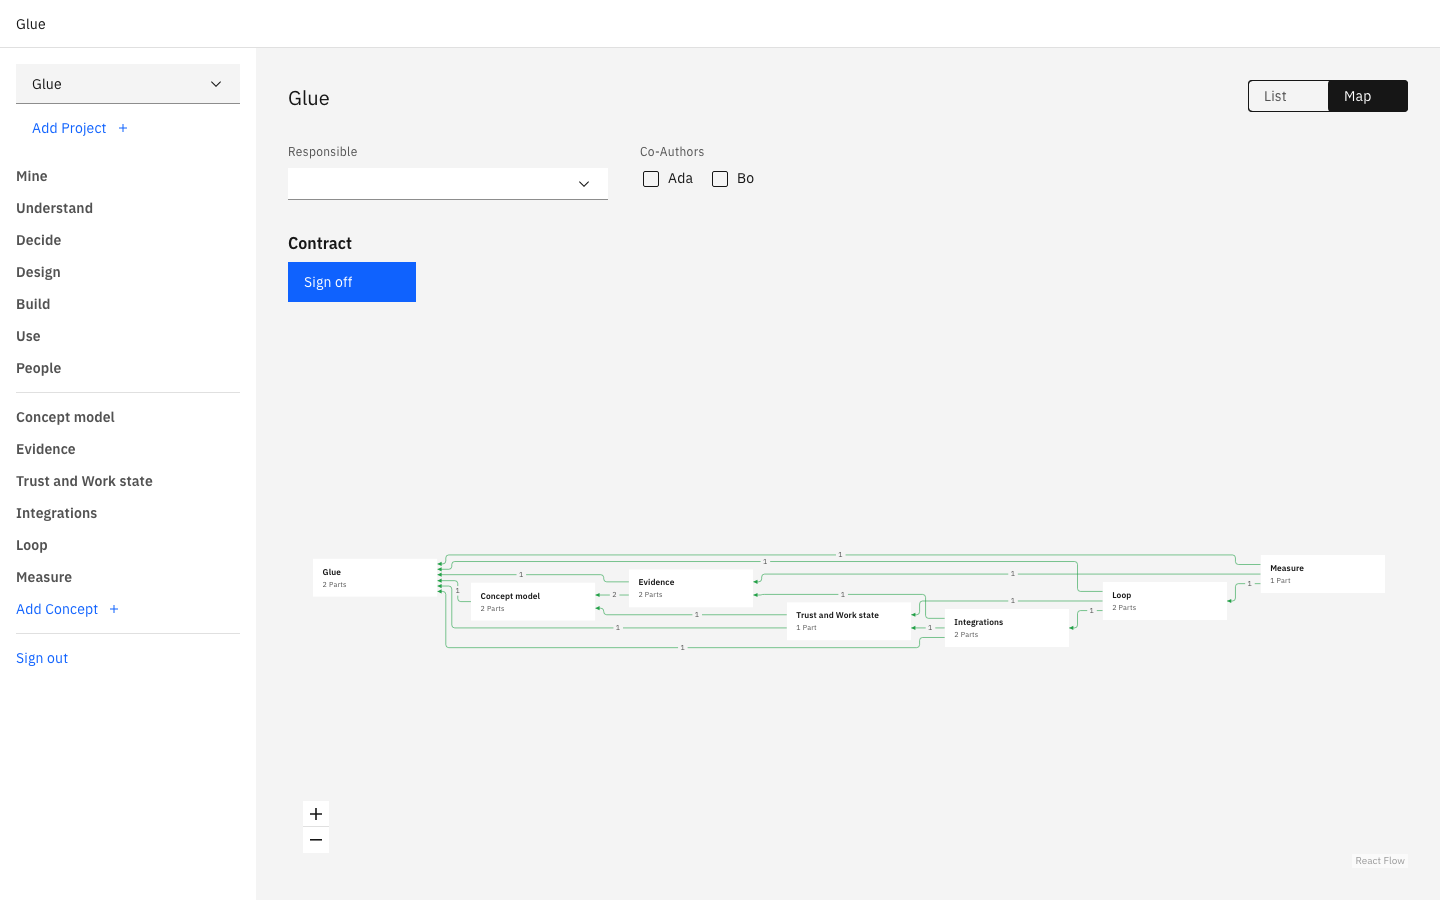
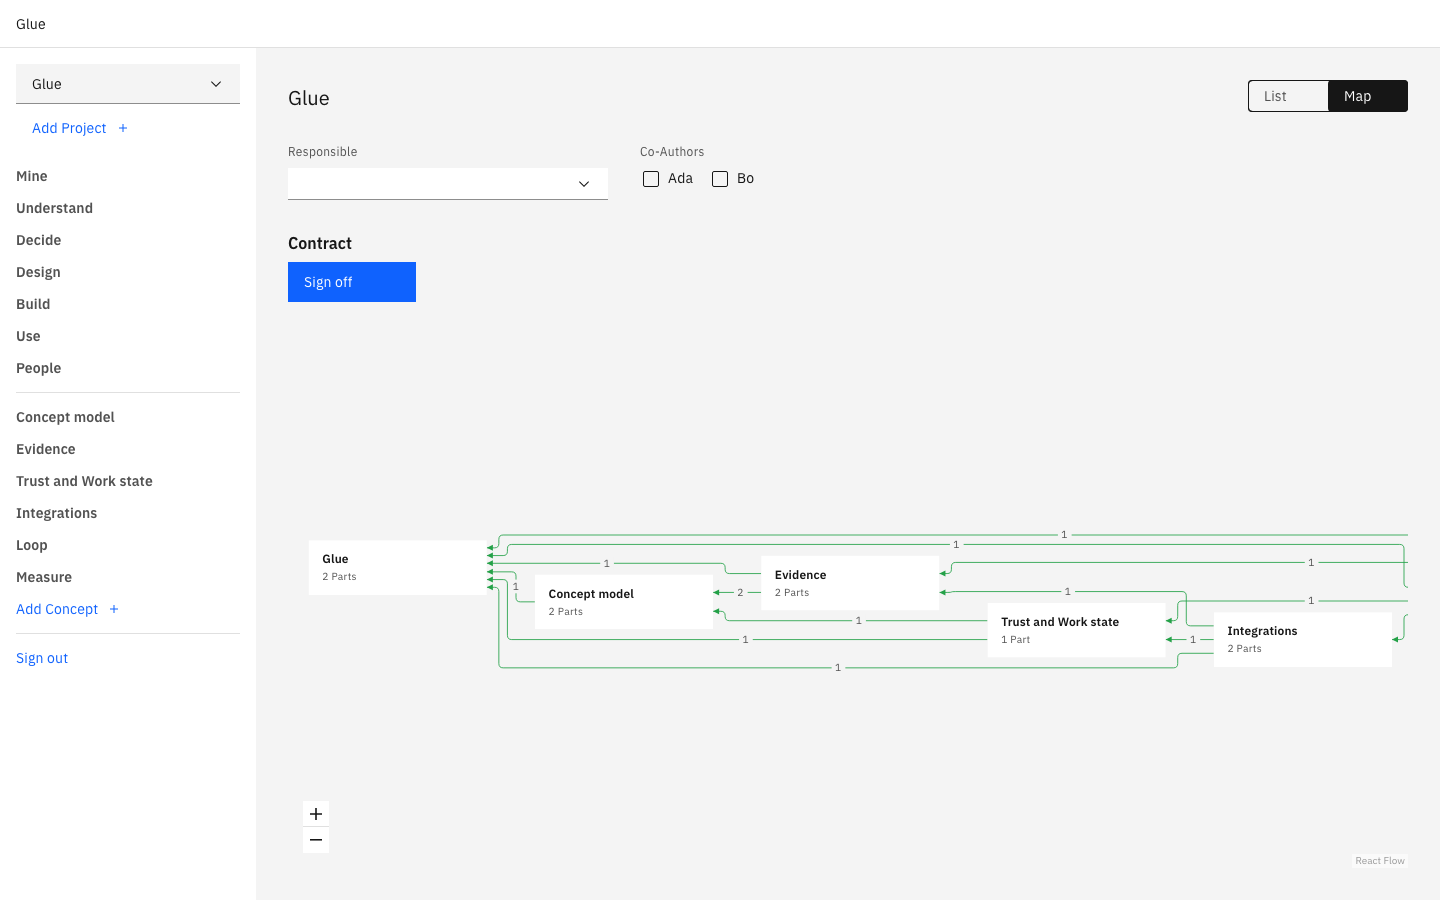
fix(map): keep the titles of the Map readable in a fit
A fit made a wide Map so small that no member could read it. The fit now
has a floor: React Flow's `minZoom` in the options of `fitView`. The
title of a Concept is 14 px, and the floor shows it at 12 px at least.
A Map that does not fit at the floor starts at its left edge, and the
member drags or zooms.

Refs #310
Decision: glue-build/D47, glue/D29

Changed region(s): [[0.2812, 0.5911, 0.9688, 0.7467], [0.2188, 0.6222, 0.25, 0.6533]]

diff --git a/src/design-system/concept-map-flow.tsx b/src/design-system/concept-map-flow.tsx
@@ -42,8 +42,11 @@ const HOVER_END_MS = 250
 // The radius of a corner of a line, and the size of its arrowhead.
 const CORNER = 5
 const ARROW = { length: 7, width: 3.5 }
+// The title of a Concept is `heading-compact-01`, 14 px. A fit shows it no
+// smaller than `label-01`, 12 px.
+const FLOOR = 12 / 14
 // The whole Map shows in its frame, at its full size at most.
-const FIT = { maxZoom: 1, padding: `${PADDING}px` } as const
+const FIT = { minZoom: FLOOR, maxZoom: 1, padding: `${PADDING}px` } as const
 
 type FlowNode = Node<{ node: MapNode }, 'node'>
 type FlowEdge = Edge<
@@ -366,8 +369,16 @@ export function ConceptMapFlow({
   const toggled = useRef<{ slug: string; open: boolean }>(undefined)
   // React Flow fits the Map at first sight, with each new layout and with
   // each new size of the frame.
-  const fit = useCallback(() => void flow.current?.fitView(FIT), [])
-  useEffect(fit, [fit, placed, room])
+  const fit = useCallback(async () => {
+    const instance = flow.current
+    if (!instance) return
+    await instance.fitView(FIT)
+    // A Map too big for its frame at the floor starts at its left top corner.
+    const { x, y, zoom } = instance.getViewport()
+    if (x < 0 || y < 0)
+      await instance.setViewport({ x: Math.max(x, 0), y: Math.max(y, 0), zoom })
+  }, [])
+  useEffect(() => void fit(), [fit, placed, room])
 
   const actions = useMemo(
     () => ({
@@ -502,7 +513,7 @@ export function ConceptMapFlow({
             edgeTypes={edgeTypes}
             onInit={(instance) => {
               flow.current = instance
-              fit()
+              void fit()
             }}
             // An open Concept is the ground of its nodes: the pointer on it
             // changes nothing.
@@ -526,7 +537,8 @@ export function ConceptMapFlow({
             preventScrolling={isBigger}
             zoomOnScroll={false}
             zoomOnDoubleClick={false}
-            // Small enough for the Map of a Project in a narrow window.
+            // The member zooms out to the whole Map of a Project in a narrow
+            // window.
             minZoom={0.1}
             maxZoom={2}
           >

diff --git a/src/design-system/concept-map.test.tsx b/src/design-system/concept-map.test.tsx
@@ -313,8 +313,9 @@ function OpenableMap() {
 }
 
 describe('ConceptMap, the fit', () => {
-  // The whole Map, at its full size at most.
-  const whole = expect.objectContaining({ maxZoom: 1 })
+  // The whole Map, at its full size at most. The floor: the title of a
+  // Concept, 14 px, shows at 12 px at least.
+  const whole = expect.objectContaining({ minZoom: 12 / 14, maxZoom: 1 })
 
   it('fits the whole Map into its frame at first sight', async () => {
     await renderMap()

diff --git a/src/design-system/concept-map.module.scss b/src/design-system/concept-map.module.scss
@@ -7,7 +7,7 @@
 
 // The Map takes the room that its panel leaves, and the height that is left
 // in the window. A bigger Map shows smaller, so that all of it is in this
-// frame.
+// frame, as long as its titles stay readable.
 .map {
   flex: 1 1 0;
   block-size: calc(100vh - var(--map-top) - #{$spacing-07});
